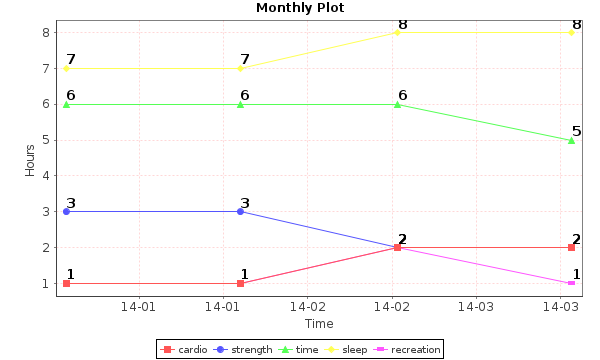
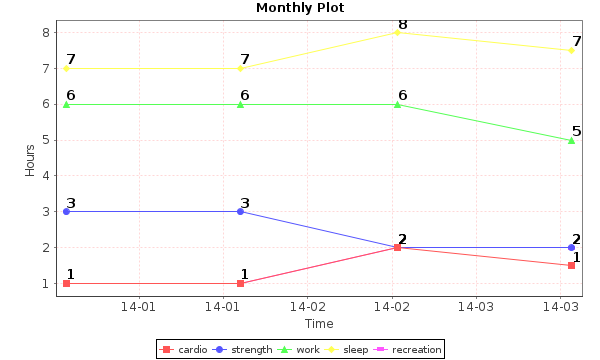
View Report, can generate linechart and histogram automatically

diff --git a/Health_Tracker/src/cse360/health_tracker/GenerateFigures.java b/Health_Tracker/src/cse360/health_tracker/GenerateFigures.java
@@ -11,7 +11,10 @@ import java.text.SimpleDateFormat;
 import org.jfree.chart.ChartFactory;
 import org.jfree.chart.ChartUtilities;
 import org.jfree.chart.JFreeChart;
+import org.jfree.chart.StandardChartTheme;
+import org.jfree.chart.plot.PlotOrientation;
 import org.jfree.chart.plot.XYPlot;
+import org.jfree.data.category.CategoryDataset;
 import org.jfree.data.time.Month;
 import org.jfree.data.time.TimeSeries;
 import org.jfree.data.time.TimeSeriesCollection;
@@ -27,52 +30,30 @@ import org.jfree.ui.*;
  */
 public class GenerateFigures {
 	
-	public static void main(String[] args) {
-		// 步骤1：创建CategoryDataset对象（准备数据）
-		TimeSeriesCollection dataset = MySQLDB.retrieveRecord("admin", "admin");
-		// 步骤2：根据Dataset 生成JFreeChart对象，以及做相应的设置
-		JFreeChart freeChart = createChart(dataset);
-		//JFreeChart freeChart = lineChart(dataset);
-		// 步骤3：将JFreeChart对象输出到文件，Servlet输出流等
-		saveAsFile(freeChart, "/home/suhang/git/CSE360_Project/Health_Tracker/img/LineChart.png", 300, 300);
-	}
-
-	// 创建TimeSeriesCollection对象
-	/*public static TimeSeriesCollection createDataset() {
-		TimeSeriesCollection lineDataset = new TimeSeriesCollection();
-		TimeSeries timeSeries = new TimeSeries("统计");
-		timeSeries.add(new Month(1, 2007), 11200);
-		timeSeries.add(new Month(2, 2007), 9000);
-		timeSeries.add(new Month(3, 2007), 6200);
-		timeSeries.add(new Month(4, 2007), 8200);
-		timeSeries.add(new Month(5, 2007), 8200);
-		timeSeries.add(new Month(6, 2007), 12200);
-		timeSeries.add(new Month(7, 2007), 13200);
-		timeSeries.add(new Month(8, 2007), 8300);
-		timeSeries.add(new Month(9, 2007), 12400);
-		timeSeries.add(new Month(10, 2007), 12500);
-		timeSeries.add(new Month(11, 2007), 13600);
-		timeSeries.add(new Month(12, 2007), 12500);
-		
-		TimeSeries timeSeries1 = new TimeSeries("统计1");
-		timeSeries1.add(new Month(1, 2007), 112001);
-		timeSeries1.add(new Month(2, 2007), 90001);
-		timeSeries1.add(new Month(3, 2007), 62001);
-		timeSeries1.add(new Month(4, 2007), 82001);
-		timeSeries1.add(new Month(5, 2007), 82001);
-		timeSeries1.add(new Month(6, 2007), 122001);
-		timeSeries1.add(new Month(7, 2007), 132001);
-		timeSeries1.add(new Month(8, 2007), 83001);
-		timeSeries1.add(new Month(9, 2007), 124001);
-		timeSeries1.add(new Month(10, 2007), 125001);
-		timeSeries1.add(new Month(11, 2007), 136001);
-		timeSeries1.add(new Month(12, 2007), 125001);
-		
-		lineDataset.addSeries(timeSeries);
-		lineDataset.addSeries(timeSeries1);
-		return lineDataset;
+	/*public static void main(String[] args) {
+		// get data from MySQL
+		GraphicalDataType data = MySQLDB.retrieveRecord_new("admin", "admin");
+		// create line chart and histogram
+		JFreeChart lineChart = createChart(data.getLineDataset());
+		JFreeChart histChart = createHistChart(data.getHistDataset());
+		// save image as file
+		saveAsFile(lineChart, "/home/suhang/git/CSE360_Project/Health_Tracker/img/LineChart.png", 300, 300);
+		saveAsFile(histChart, "/home/suhang/git/CSE360_Project/Health_Tracker/img/Histogram.png", 300, 300);
 	}*/
 
+	public static void generateFigures() throws IOException
+	{
+		GraphicalDataType data = MySQLDB.retrieveRecord_new("admin", "admin");
+		// create line chart and histogram
+		JFreeChart lineChart = createChart(data.getLineDataset());
+		JFreeChart histChart = createHistChart(data.getHistDataset());
+		// save image as file
+		File directory = new File(".");
+		final String dir = directory.getCanonicalPath();
+		saveAsFile(lineChart, dir+"/img/LineChart.png", 600, 360);
+		saveAsFile(histChart, dir+"/img/Histogram.png", 600, 360);
+	}
+	
 	public static JFreeChart lineChart(TimeSeriesCollection lineDataset)
 	{
 		JFreeChart lineChart = ChartFactory.createTimeSeriesChart(null, null, null, lineDataset);
@@ -80,16 +61,41 @@ public class GenerateFigures {
 		return lineChart;
 	}
 	
+	public static JFreeChart createHistChart(CategoryDataset histDataset)
+	{
+		//create theme  
+        StandardChartTheme standardChartTheme=new StandardChartTheme("CN");      
+        //set title font    
+        standardChartTheme.setExtraLargeFont(new Font("隶书",Font.BOLD,12));      
+        //set legend font   
+        standardChartTheme.setRegularFont(new Font("宋书",Font.PLAIN,10));      
+        //set axis font  
+        standardChartTheme.setLargeFont(new Font("宋书",Font.PLAIN,10));      
+        //use theme   
+        ChartFactory.setChartTheme(standardChartTheme);  
+        JFreeChart chart = ChartFactory.createBarChart3D(  
+                           "Histogram", // title
+                           "physical activity", // category
+                           "Hours", // y label 
+                            histDataset, // dataset 
+                            PlotOrientation.VERTICAL, // figure direction: horizontal or vertical
+                            true,  // legend
+                            false, // tooltips
+                            false  // URLs
+                            );  
+        return chart;
+	}
+	
 	// 根据CategoryDataset生成JFreeChart对象
 	public static JFreeChart createChart(TimeSeriesCollection lineDataset) {
 		JFreeChart jfreechart = ChartFactory.createTimeSeriesChart(
-				"Monthly Plot", 		// 标题
-				"Time", 		// categoryAxisLabel （category轴，横轴，X轴的标签）
-				"Hours", 	// valueAxisLabel（value轴，纵轴，Y轴的标签）
+				"Monthly Plot", 		// title
+				"Time", 		// categoryAxisLabel
+				"Hours", 	// valueAxisLabel
 				lineDataset,// dataset
 				true, 		// legend
 				true, 		// tooltips
-				false); 		// URLs
+				false); 		// URLs300, 300
 
 
 		// 配置字体（解决中文乱码的通用方法）
@@ -139,7 +145,7 @@ public class GenerateFigures {
 
 	// 保存为文件
 	public static void saveAsFile(JFreeChart chart, String outputPath,
-			int weight, int height) {
+			int width, int height) {
 		FileOutputStream out = null;
 		try {
 			File outFile = new File(outputPath);
@@ -147,9 +153,9 @@ public class GenerateFigures {
 				outFile.getParentFile().mkdirs();
 			}
 			out = new FileOutputStream(outputPath);
-			// 保存为PNG文件
-			ChartUtilities.writeChartAsPNG(out, chart, 600, 360);
-			// 保存为JPEG文件
+			// save as PNG file
+			ChartUtilities.writeChartAsPNG(out, chart, width, height);
+			// save as JPEG file
 		    //ChartUtilities.writeChartAsJPEG(out, chart, 500, 400);
 			out.flush();
 		} catch (FileNotFoundException e) {

diff --git a/Health_Tracker/src/cse360/health_tracker/MySQLDB.java b/Health_Tracker/src/cse360/health_tracker/MySQLDB.java
@@ -210,4 +210,92 @@ public class MySQLDB {
 		
 		return lineDataset;
 	}
+	
+	public static GraphicalDataType retrieveRecord_new(String username, String password)
+	{
+		GraphicalDataType graphicalData = new GraphicalDataType();
+		try{
+			con = DriverManager.getConnection(url, dbuser, dbpassword);
+			st = (Statement) con.createStatement();
+			String queryPhysical = "select * from physicalActivity where username = \"" + username + "\" and password = \"" + 
+									password + "\" order by date asc";
+			rs = st.executeQuery(queryPhysical);
+			
+			TimeSeries cardioSeries = new TimeSeries("cardio");
+			TimeSeries strengthSeries = new TimeSeries("strength");
+			TimeSeries workSeries = new TimeSeries("work");
+			TimeSeries sleepSeries = new TimeSeries("sleep");
+			TimeSeries recreationSeries = new TimeSeries("recreation");
+			
+			int year = 0, month = 0, curYear, curMonth, count = 0;
+			double cardio = 0, strength = 0, work = 0, sleep = 0, recreation = 0;
+			boolean firstTime = true;
+			while(rs.next())
+			{
+				/*Date date = rs.getDate(3);
+				curYear = date.getYear();
+				curMonth = date.getMonth();*/
+				String date1 = rs.getString(3);
+				String sp[] = date1.split("-");
+				curYear = Integer.parseInt(sp[0]);
+				curMonth = Integer.parseInt(sp[1]);
+				System.out.println(curYear+" "+curMonth);
+				if(year!=curYear || month!=curMonth)
+				{
+					if(firstTime == false)
+					{
+						System.out.println(new Month(month, year));
+						cardioSeries.add(new Month(month, year), cardio/count);
+						strengthSeries.add(new Month(month, year), strength/count);
+						workSeries.add(new Month(month, year), work/count);
+						sleepSeries.add(new Month(month, year), sleep/count);
+						recreationSeries.add(new Month(month, year), recreation/count);
+						graphicalData.addCategory(cardio/count, new Month(month, year), "cardio");
+						graphicalData.addCategory(strength/count, new Month(month, year), "strength");
+						graphicalData.addCategory(work/count, new Month(month, year), "work");
+						graphicalData.addCategory(sleep/count, new Month(month, year), "sleep");
+						graphicalData.addCategory(recreation/count, new Month(month, year), "recreation");
+						//graphicalData.addCategory(cardio/count, new Month(month, year), "cardio");
+					}
+					count = 0;
+					cardio = 0;
+					strength = 0;
+					work = 0;
+					sleep = 0;
+					recreation = 0;
+					year = curYear;
+					month = curMonth;
+					firstTime = false;
+				}
+				count = count + 1;
+				cardio = cardio + rs.getDouble(4);
+				strength = strength + rs.getDouble(5);
+				work = work + rs.getDouble(6);
+				sleep = sleep + rs.getDouble(7);
+				recreation = recreation + rs.getDouble(8);
+			}
+			System.out.println(month);
+			cardioSeries.add(new Month(month, year), cardio/count);
+			strengthSeries.add(new Month(month, year), strength/count);
+			workSeries.add(new Month(month, year), work/count);
+			sleepSeries.add(new Month(month, year), sleep/count);
+			recreationSeries.add(new Month(month, year), recreation/count);
+			graphicalData.addCategory(cardio/count, new Month(month, year), "cardio");
+			graphicalData.addCategory(strength/count, new Month(month, year), "strength");
+			graphicalData.addCategory(work/count, new Month(month, year), "work");
+			graphicalData.addCategory(sleep/count, new Month(month, year), "sleep");
+			graphicalData.addCategory(recreation/count, new Month(month, year), "recreation");
+			
+			graphicalData.addLineChartTimeSeries(cardioSeries);
+			graphicalData.addLineChartTimeSeries(strengthSeries);
+			graphicalData.addLineChartTimeSeries(workSeries);
+			graphicalData.addLineChartTimeSeries(sleepSeries);
+			graphicalData.addLineChartTimeSeries(recreationSeries);
+		}catch(SQLException e)
+		{
+			e.printStackTrace();
+		}
+		
+		return graphicalData;
+	}
 }

diff --git a/Health_Tracker/src/cse360/health_tracker/BarChartDemo.java b/Health_Tracker/src/cse360/health_tracker/BarChartDemo.java
@@ -20,14 +20,14 @@ import org.jfree.data.category.DefaultCategoryDataset;
         //创建主题样式      
          StandardChartTheme standardChartTheme=new StandardChartTheme("CN");      
          //设置标题字体      
-         standardChartTheme.setExtraLargeFont(new Font("隶书",Font.BOLD,20));      
+         standardChartTheme.setExtraLargeFont(new Font("隶书",Font.BOLD,12));      
          //设置图例的字体      
-         standardChartTheme.setRegularFont(new Font("宋书",Font.PLAIN,15));      
+         standardChartTheme.setRegularFont(new Font("宋书",Font.PLAIN,10));      
          //设置轴向的字体      
-         standardChartTheme.setLargeFont(new Font("宋书",Font.PLAIN,15));      
+         standardChartTheme.setLargeFont(new Font("宋书",Font.PLAIN,10));      
          //应用主题样式      
          ChartFactory.setChartTheme(standardChartTheme);  
-         CategoryDataset dataset = getDataSet();  
+         CategoryDataset dataset = getDataSet2();  
          JFreeChart chart = ChartFactory.createBarChart3D(  
                             "水果产量图", // 图表标题 
                             "水果", // 目录轴的显示标签 
@@ -41,7 +41,7 @@ import org.jfree.data.category.DefaultCategoryDataset;
                              
          FileOutputStream fos_jpg = null;  
          try {  
-             fos_jpg = new FileOutputStream("/home/suhang/git/CSE360_Project/Health_Tracker/img/LineChart.jpg");  
+             fos_jpg = new FileOutputStream("/home/suhang/git/CSE360_Project/Health_Tracker/img/Histogram.jpg");  
              ChartUtilities.writeChartAsJPEG(fos_jpg,chart,400,300);  
          } finally {  
              try {  

diff --git a/Health_Tracker/src/cse360/health_tracker/ViewReport.java b/Health_Tracker/src/cse360/health_tracker/ViewReport.java
@@ -63,6 +63,9 @@ public class ViewReport {
 		frmViewReport.setDefaultCloseOperation(JFrame.EXIT_ON_CLOSE);
 		frmViewReport.getContentPane().setLayout(null);
 		
+		// generate the figures
+		GenerateFigures.generateFigures(); 
+		
 		JLabel lblLineChart = new JLabel("Line Chart");
 		lblLineChart.setBounds(0, 0, 600, frmViewReport.getHeight()/2);
 		File directory = new File(".");
@@ -75,7 +78,7 @@ public class ViewReport {
 		
 		JLabel lblHistogram = new JLabel("New label");
 		lblHistogram.setBounds(0, frmViewReport.getHeight()/2, 600, frmViewReport.getHeight()/2);
-		ImageIcon iconHistogram = new ImageIcon(dir+"/img/Histogram.jpg");
+		ImageIcon iconHistogram = new ImageIcon(dir+"/img/Histogram.png");
 		Image tempHistogram = iconHistogram.getImage().getScaledInstance(lblHistogram.getWidth(), lblHistogram.getHeight(), iconHistogram.getImage().SCALE_DEFAULT);
 		iconHistogram = new ImageIcon(tempHistogram);
 		lblHistogram.setIcon(iconHistogram);
@@ -112,5 +115,9 @@ public class ViewReport {
 		btnPrintToPrinter = new JButton("Print to printer");
 		btnPrintToPrinter.setBounds(674, 640, 147, 25);
 		frmViewReport.getContentPane().add(btnPrintToPrinter);
+		
+		JButton btnSwitchToWeekly_1 = new JButton("Switch to Weekly");
+		btnSwitchToWeekly_1.setBounds(677, 273, 117, 25);
+		frmViewReport.getContentPane().add(btnSwitchToWeekly_1);
 	}
 }
